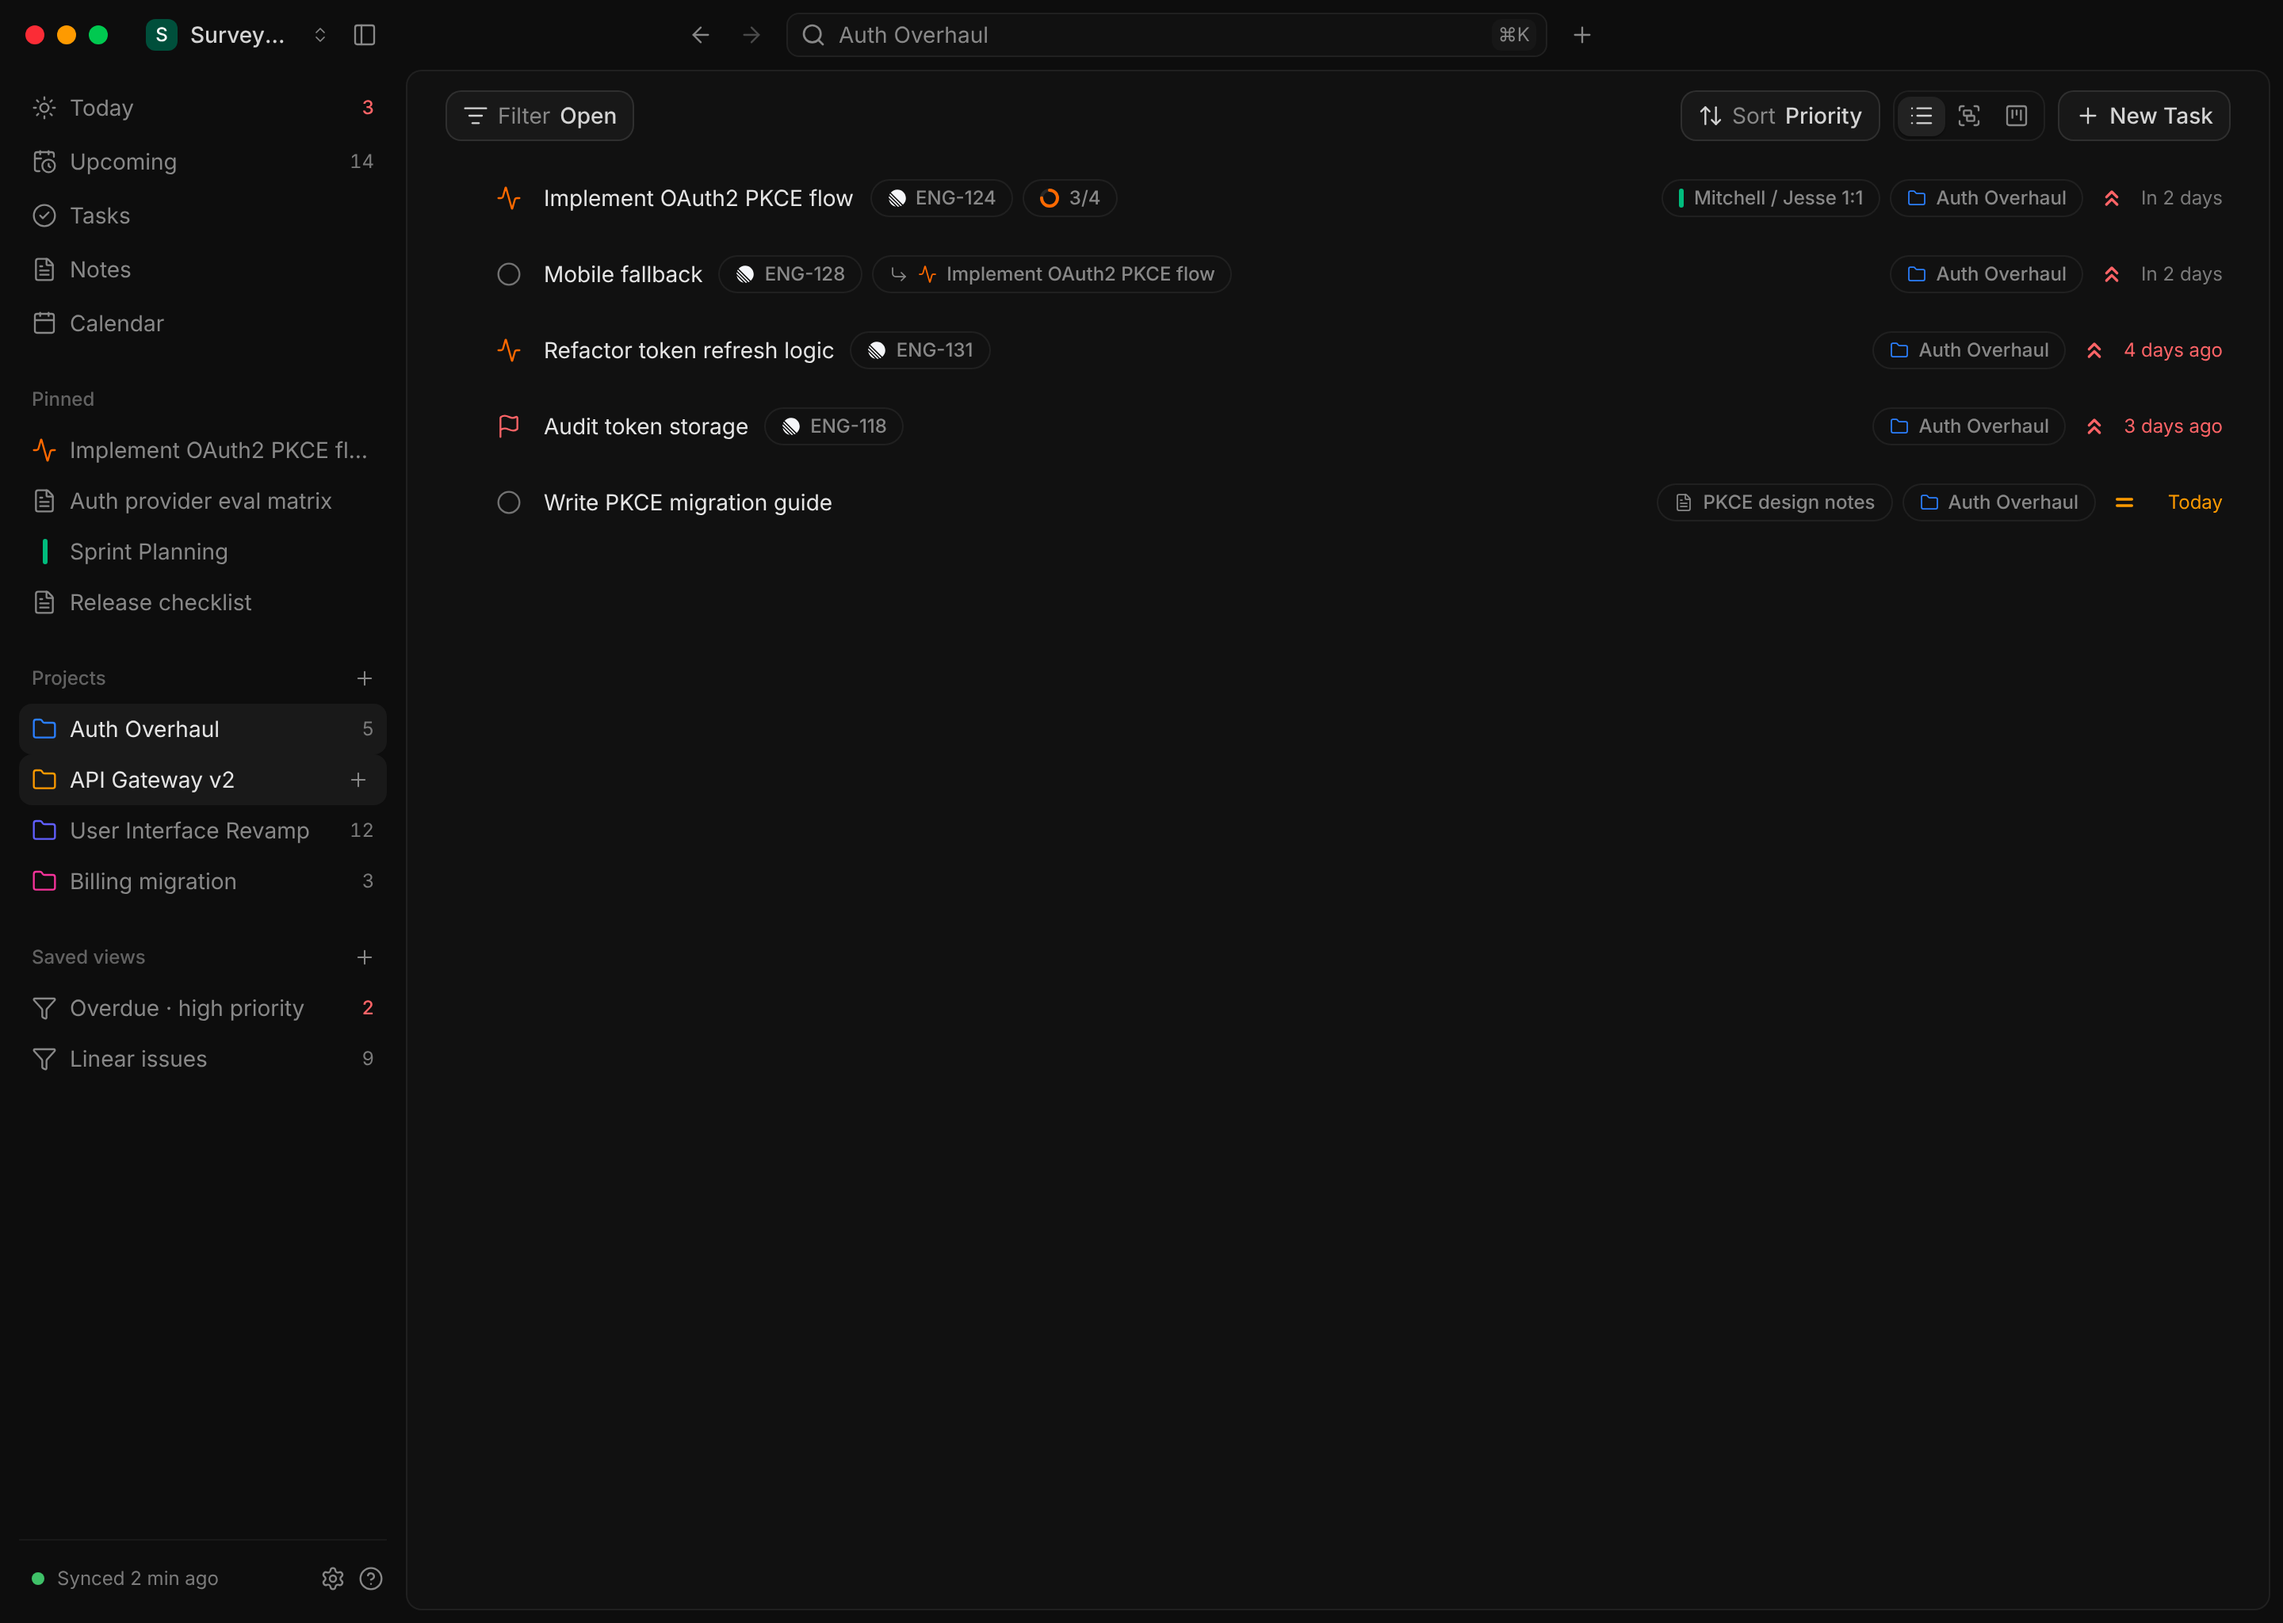
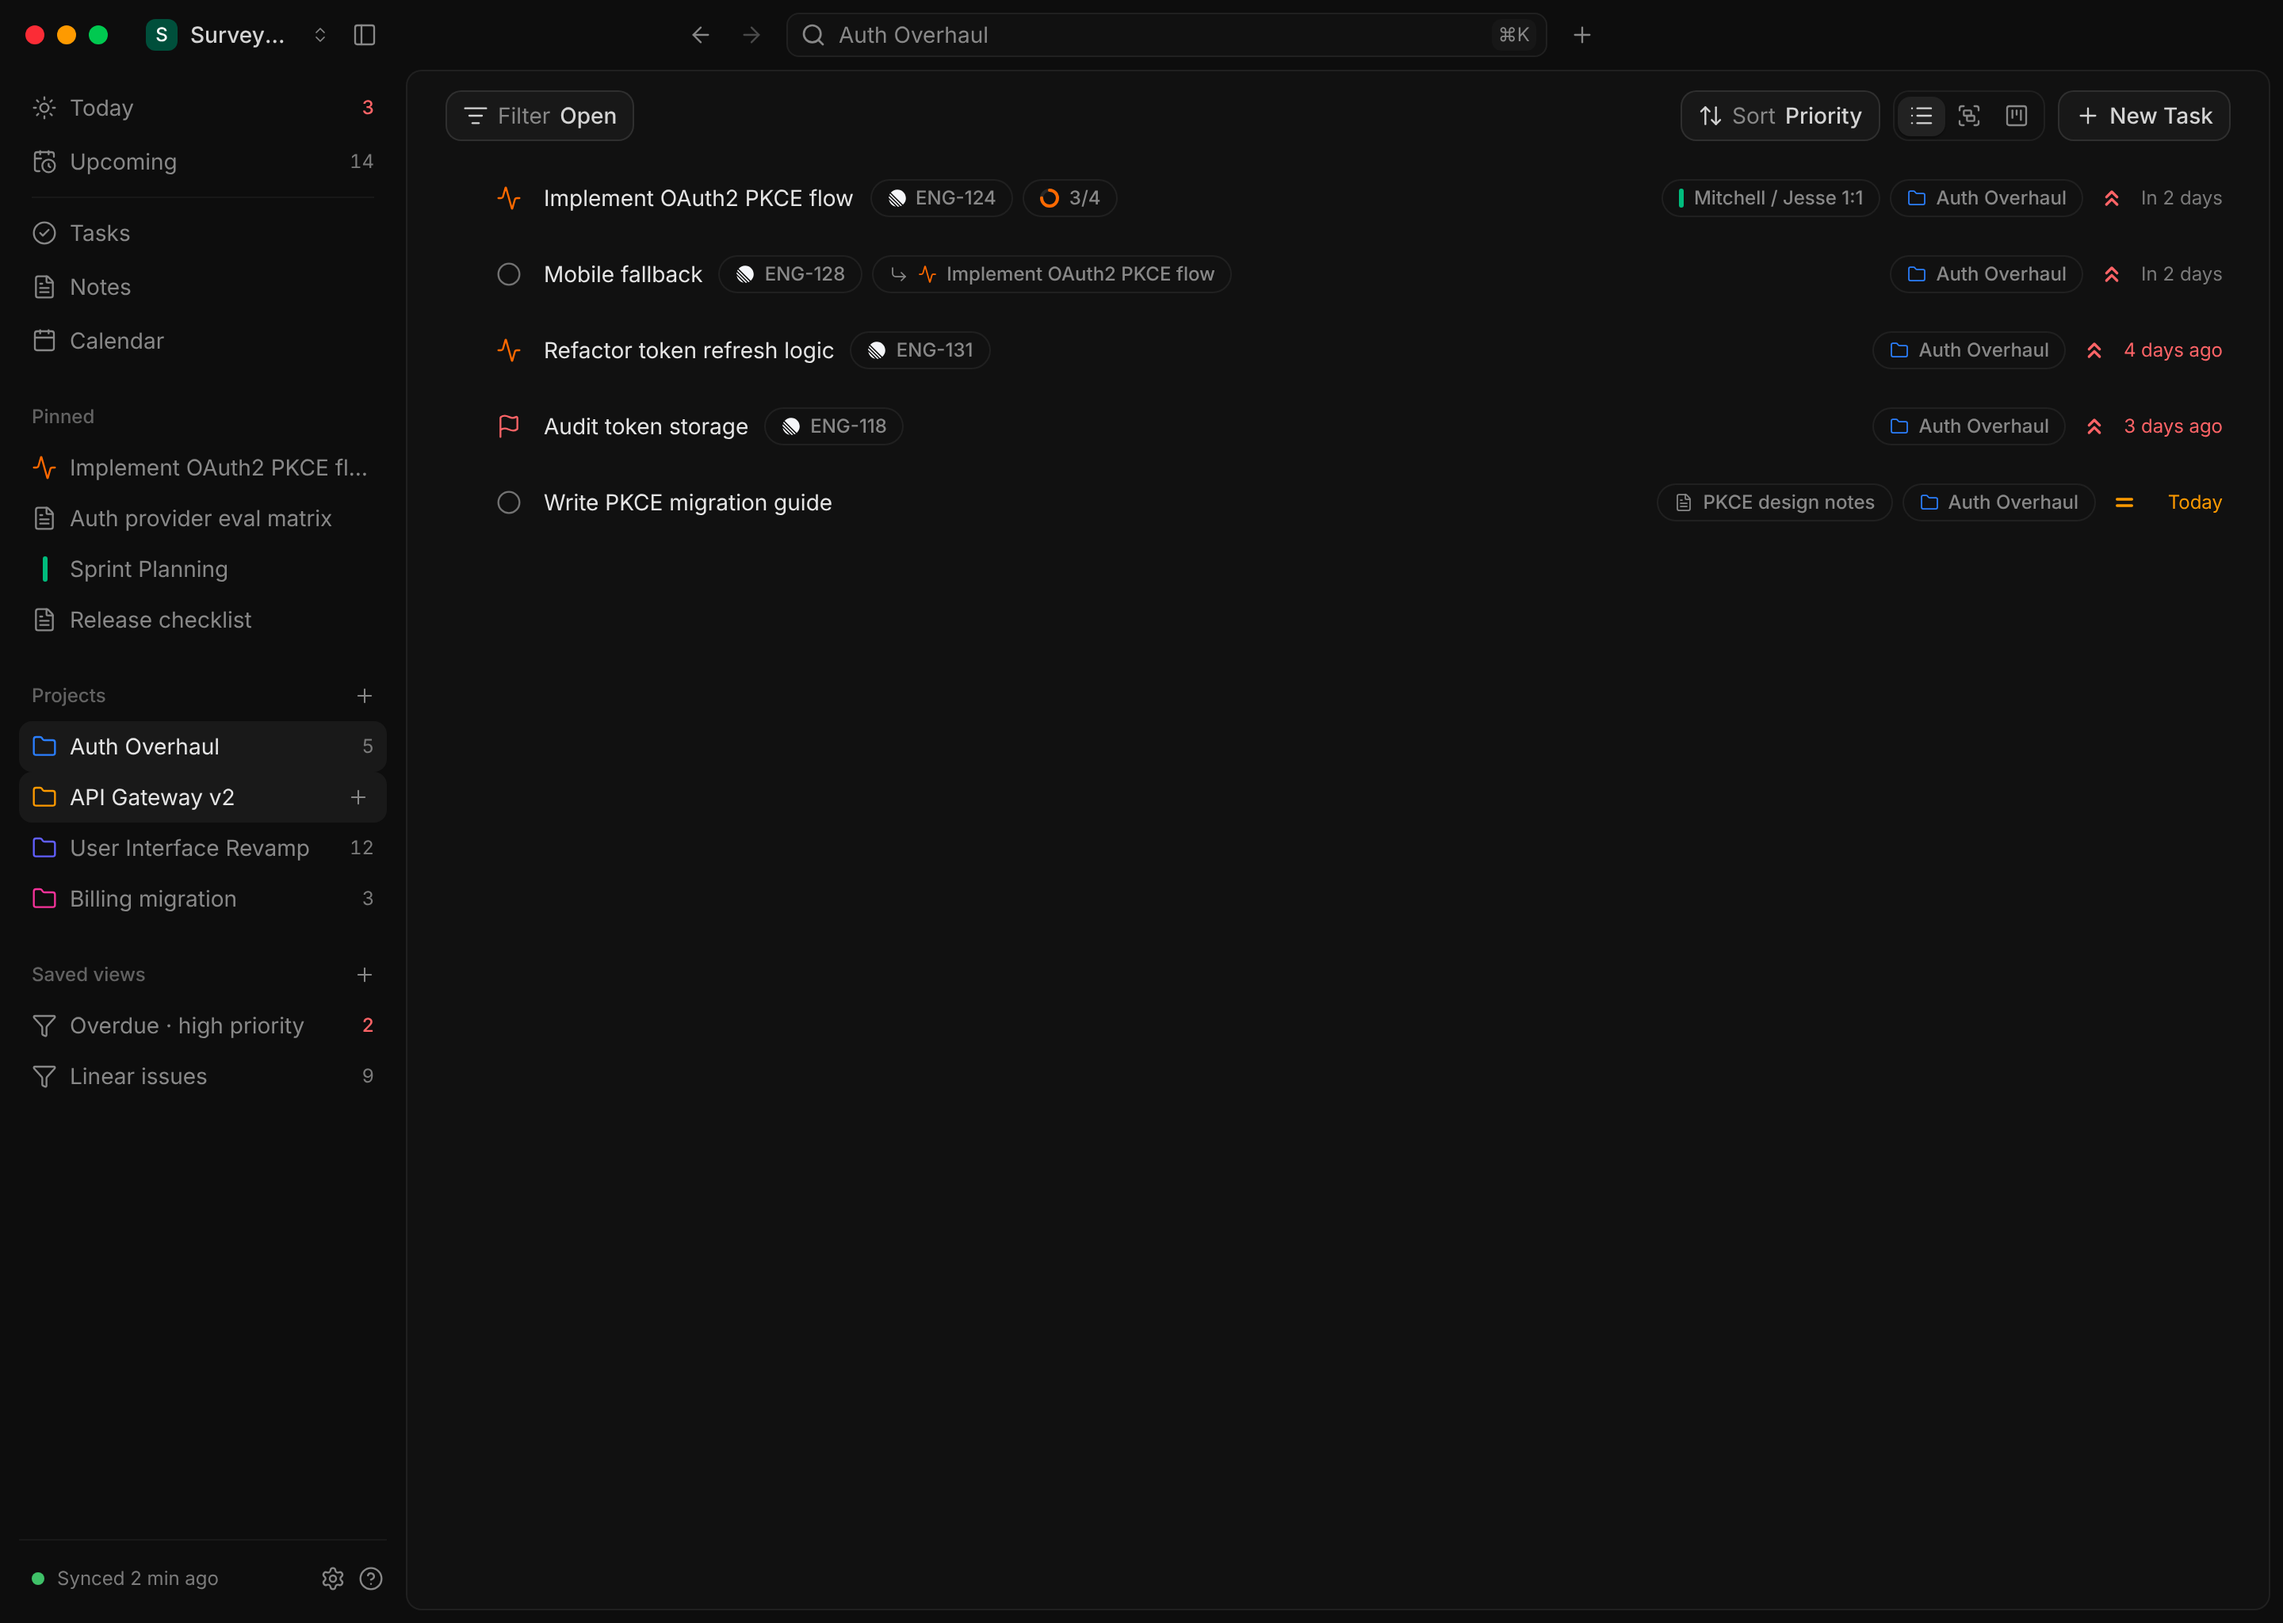
Sidebar mock: hairline between the time views and the full lists
Claude-Session: https://claude.ai/code/session_01P34MGbizv5JoWDVMWf7x61

diff --git a/src/renderer/components/screens/SidebarRedesign/RedesignSidebar.tsx b/src/renderer/components/screens/SidebarRedesign/RedesignSidebar.tsx
@@ -174,6 +174,7 @@ export function RedesignSidebar({
             row={{ label: 'Upcoming', icon: CalendarClock, count: 14 }}
             active={active === 'Upcoming'}
           />
+          {library === 'rows' && <div className={styles.separator} role="separator" />}
           {library === 'rows' &&
             LIBRARY.map(([label, icon]) => (
               <SidebarItem key={label} icon={icon} active={active === label}>

diff --git a/src/renderer/components/screens/SidebarRedesign/SidebarRedesign.module.css b/src/renderer/components/screens/SidebarRedesign/SidebarRedesign.module.css
@@ -172,3 +172,11 @@
 .dot[data-state='syncing'] {
   background: var(--ring);
 }
+
+/* between the time views (Today, Upcoming) and the full lists (Tasks, Notes, Calendar): 4px above
+   and below plus the menu's 2px gap, inset to the items' padding */
+.separator {
+  height: 1px;
+  margin: var(--space-1) var(--space-2);
+  background: var(--sidebar-border);
+}
